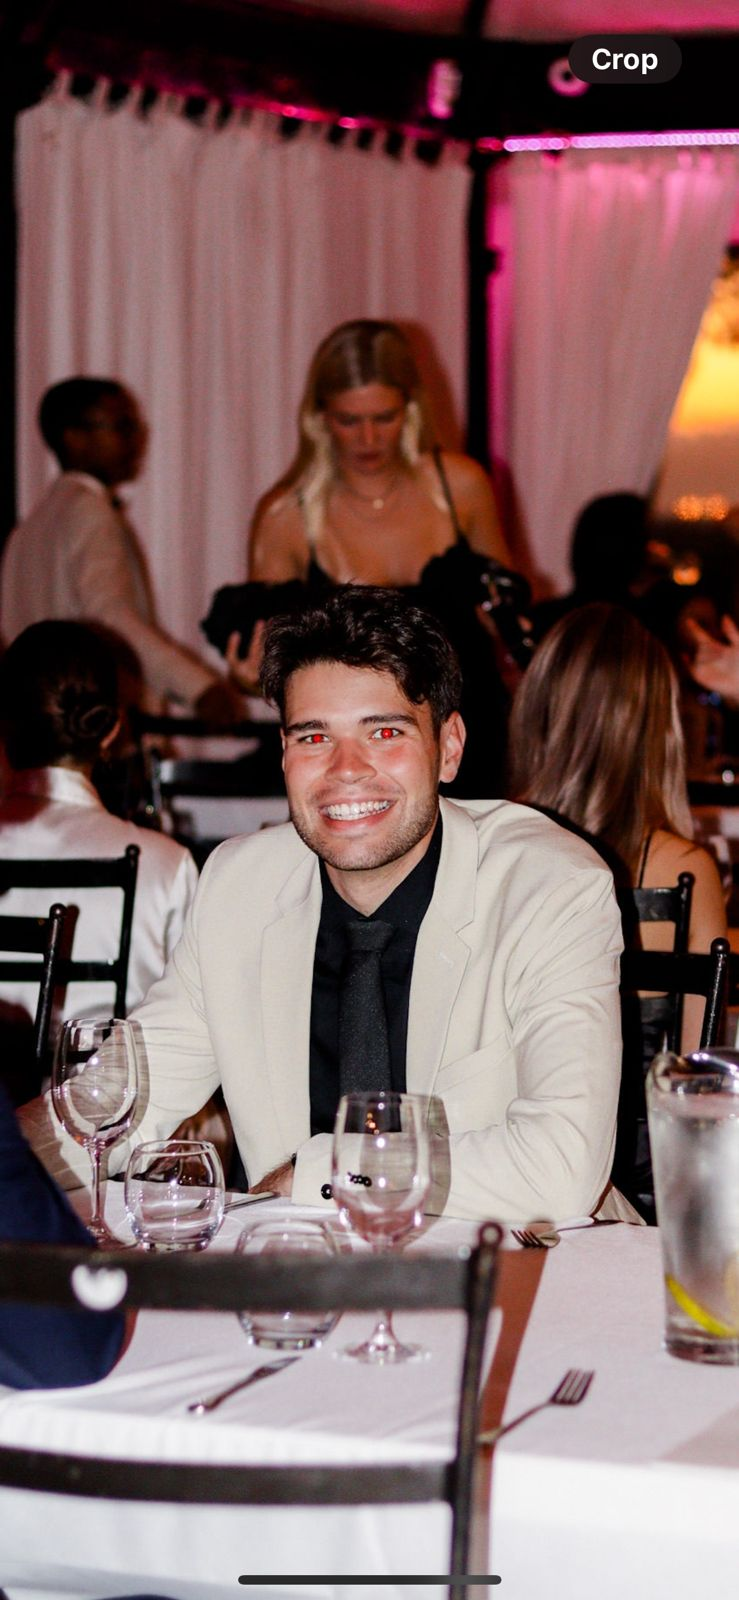
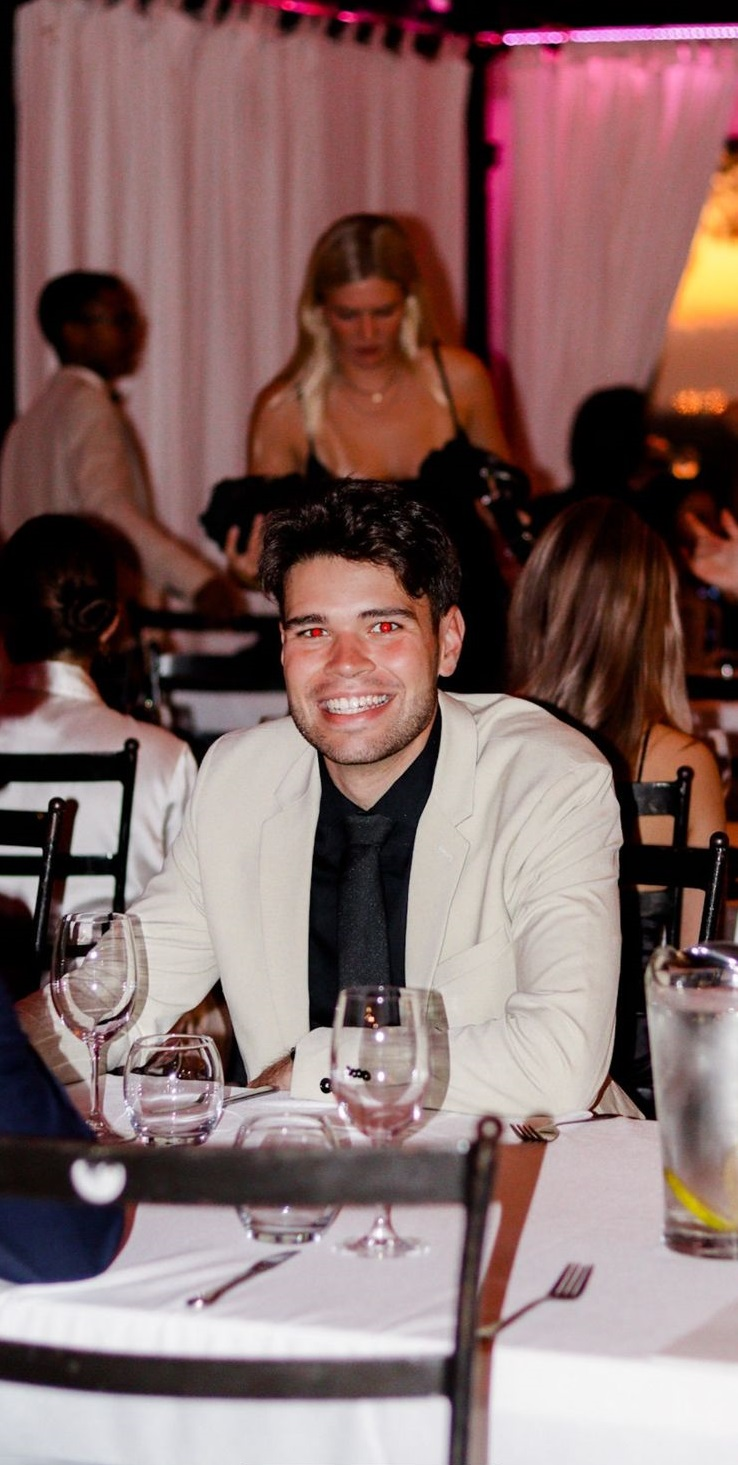
Finished css for job-service. Resized and scaled image

diff --git a/src/app/components/job-details/job-details.component.html b/src/app/components/job-details/job-details.component.html
@@ -1,5 +1,7 @@
+<div class="container">
+    <h1>{{currentJob.title}}, {{currentJob.employer}} ({{currentJob.duration}})</h1>
+    <p>{{currentJob.description}}</p>
+    <a [routerLink]="['/jobs']">Back</a>
+</div>
 
-<h1>{{currentJob.title}}, {{currentJob.employer}} ({{currentJob.duration}})</h1>
-<p>{{currentJob.description}}</p>
-<a [routerLink]="['/jobs']">Back</a>
 

diff --git a/src/app/services/job-service.service.ts b/src/app/services/job-service.service.ts
@@ -10,7 +10,7 @@ export class JobServiceService {
     {
       id: 1,
       title: 'Hockey coach',
-      description: 'Teach kids how to play hockey',
+      description: 'Tought kids how to play hockey',
       duration: '3 years',
       employer: 'The Hockey farm',
     },

diff --git a/src/app/components/job-details/job-details.component.css b/src/app/components/job-details/job-details.component.css
@@ -1,0 +1,9 @@
+.container{
+    border: 5px solid rgb(17, 211, 236);
+    width: 60%;
+    margin: 20px auto;
+    font-size: 20pt;
+    border-radius: 10px;
+    padding: 30px;
+    text-align: center;
+}
